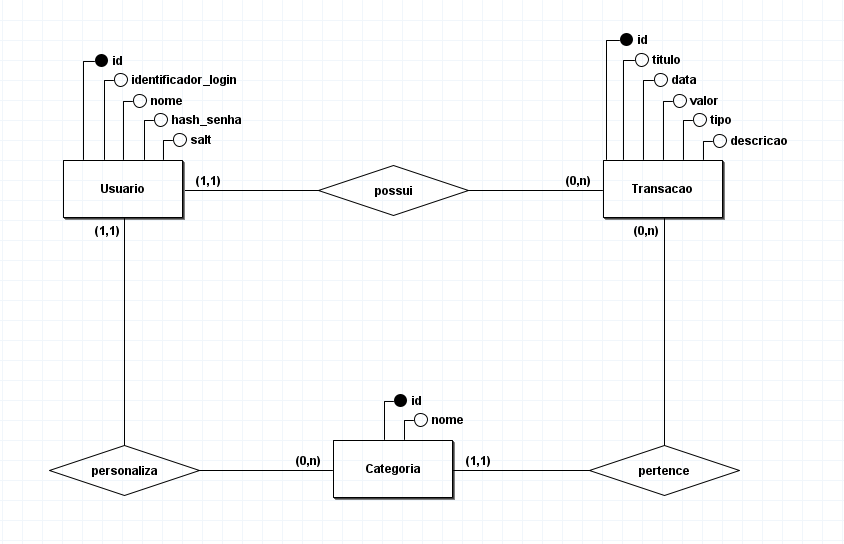
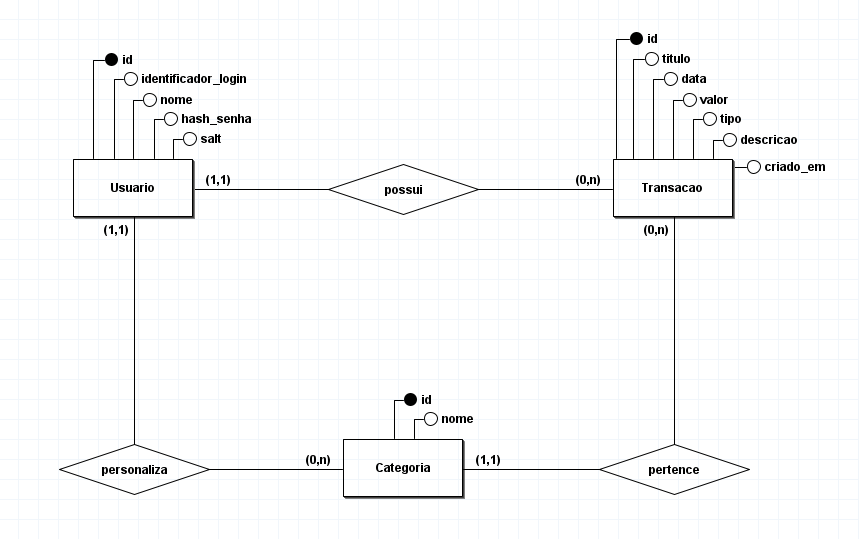
refactor: atualiza docs do BD, desativa dev_mode e remove codigo morto
- atualiza diagrama ER em docs/bd
- desativa app.security.dev-mode em application.properties
- remove import desnecessário em CategoriaRequest.java
- apaga comentário em cadastro.html

diff --git a/src/main/resources/static/cadastro.html b/src/main/resources/static/cadastro.html
@@ -71,7 +71,6 @@
         <button type="submit">
             Cadastrar
         </button>
-        <!-- <p id="mensagem"></p> -->
         <div id="mensagem"></div>
     </form>
     <div class="index-link">

diff --git a/src/main/java/br/edu/ufop/controlefinanceiro/controller/dto/CategoriaRequest.java b/src/main/java/br/edu/ufop/controlefinanceiro/controller/dto/CategoriaRequest.java
@@ -1,7 +1,6 @@
 package br.edu.ufop.controlefinanceiro.controller.dto;
 
 import jakarta.validation.constraints.NotBlank;
-import jakarta.validation.constraints.NotNull;
 import jakarta.validation.constraints.Size;
 import lombok.Getter;
 import lombok.Setter;
